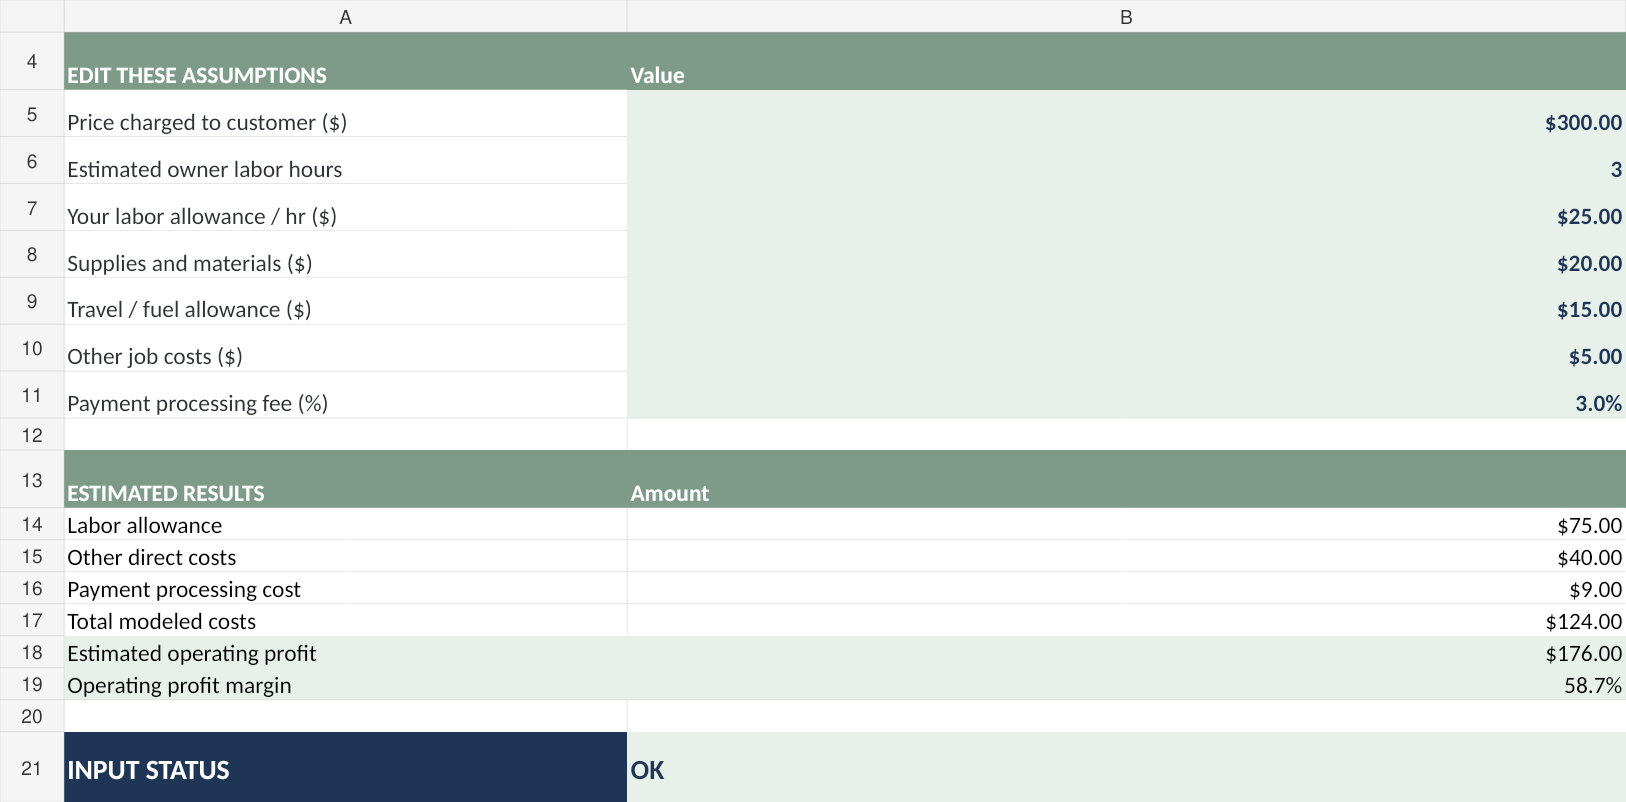
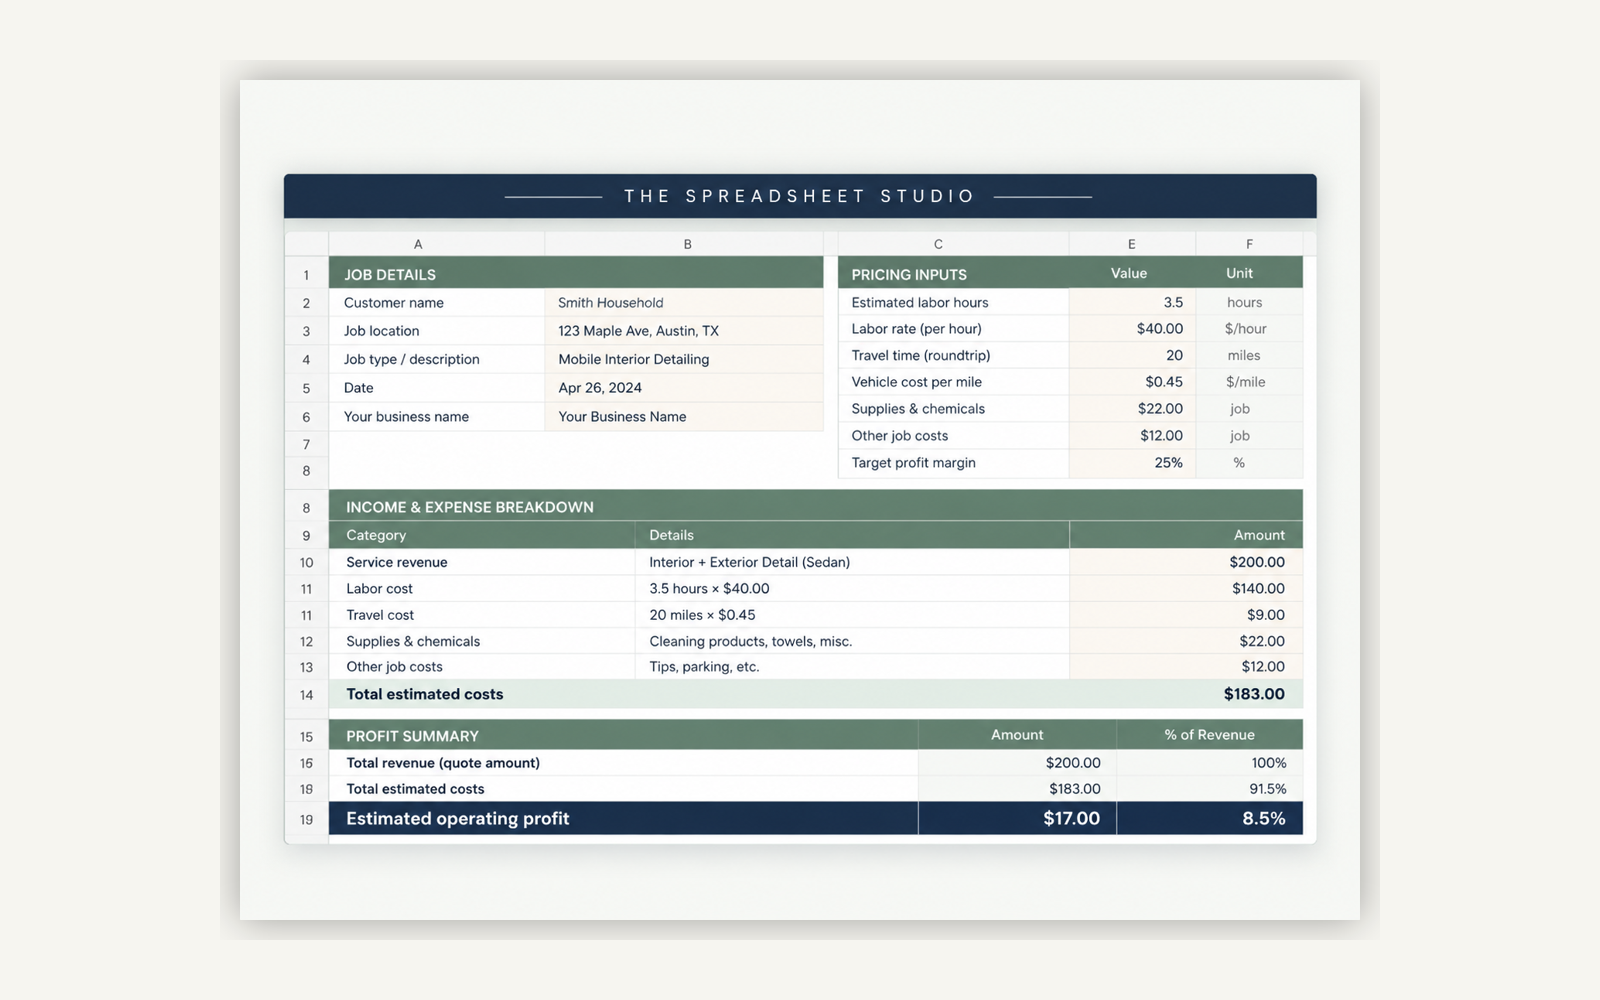
Add files via upload

diff --git a/styles.css b/styles.css
@@ -1,11 +1,11 @@
 :root{--navy:#1F3556;--euc:#7E9B8A;--ivory:#F7F3EB;--stone:#D8D2C8;--ink:#2E3135;--muted:#57666d;--line:#e3e5e0}*{box-sizing:border-box}html{scroll-behavior:smooth}body{margin:0;font:16px/1.65 'DM Sans',Arial,sans-serif;color:var(--ink);background:#fdfcf9}a{text-decoration:none;color:inherit}button,input{font:inherit}button{cursor:pointer}h1,h2,h3,.wordmark{font-family:'Playfair Display',Georgia,serif}h1{font-size:clamp(2.8rem,5.2vw,5rem);font-weight:600;line-height:1.15;letter-spacing:-.035em;margin:18px 0 22px}h2{font-size:clamp(2.1rem,3.6vw,3.25rem);font-weight:600;line-height:1.2;letter-spacing:-.03em;margin:12px 0 18px;color:var(--navy)}h3{font-size:1.35rem;line-height:1.3;margin:8px 0}p{color:var(--muted);margin:0 0 18px}.wrap{max-width:1210px;width:calc(100% - 48px);margin:auto}.announcement{background:var(--navy);color:white;text-align:center;padding:8px 15px;font-size:.78rem;letter-spacing:.08em}.header{background:#fffefa;position:sticky;top:0;z-index:5;border-bottom:1px solid var(--line)}.nav{min-height:84px;display:flex;align-items:center;justify-content:space-between;gap:15px}.wordmark{font-weight:700;color:var(--navy);font-size:1.45rem;line-height:1.05;display:inline-block}.wordmark span{display:block;font:700 .56rem 'DM Sans',sans-serif;letter-spacing:.16em;margin-top:9px}.nav nav{display:flex;gap:28px}.nav nav a{font-size:.89rem;color:#354653;font-weight:600}.nav nav a:hover,a.text-link:hover{color:#4a8066}.nav-cta,.button{border-radius:4px;background:var(--navy);color:white;padding:12px 19px;border:1px solid var(--navy);font-weight:700;font-size:.88rem;display:inline-flex;align-items:center;justify-content:center;gap:12px}.button:hover,.nav-cta:hover{background:#345476}.button.secondary{background:transparent;color:var(--navy)}.button.secondary:hover{background:#ebf1ea}.button.light{background:#e7f0e9;color:var(--navy);border-color:#e7f0e9}.menu{display:none;border:1px solid var(--line);background:white;color:var(--navy);padding:7px 12px;border-radius:4px}.eyebrow{font-size:.72rem;letter-spacing:.18em;font-weight:700;color:#597565}.hero{background:linear-gradient(115deg,#f7f3eb 0%,#f5f5f0 55%,#e6eee7 100%);overflow:hidden}.hero-grid{display:grid;grid-template-columns:1.03fr .97fr;align-items:center;gap:50px;padding:92px 0 100px}.hero h1{color:var(--navy)}.hero h1 em{font-style:normal;color:#608271}.hero p{max-width:500px;font-size:1.04rem}.actions{display:flex;gap:12px;flex-wrap:wrap;margin:30px 0 18px}.hero .launch-note{font-size:.8rem;color:#6f7f7b}.hero-art{min-height:425px;display:grid;place-items:center;position:relative}.glow{position:absolute;inset:3%;border-radius:50%;background:#dce7dc;transform:rotate(-8deg)}.laptop{position:relative;width:min(100%,560px);border:10px solid #283951;border-bottom-width:24px;border-radius:15px 15px 7px 7px;box-shadow:0 26px 55px #1f355632;transform:rotate(-3deg);background:white;overflow:hidden}.mockbar{background:#edf2ed;padding:11px 15px;font-size:.55rem;color:#446054;display:flex;justify-content:space-between;font-weight:700}.mockmain{padding:23px}.mocklabel{color:var(--navy);font-weight:700;margin-bottom:15px}.statgrid{display:grid;grid-template-columns:repeat(3,1fr);gap:9px}.statgrid>div{border:1px solid #e2e9e4;border-radius:5px;padding:10px 9px}.statgrid small{display:block;font-size:.55rem;color:#7b8884}.statgrid b{font-size:1.03rem;color:#335849}.charts{display:grid;grid-template-columns:1.4fr 1fr;gap:11px;margin-top:13px}.chart{border:1px solid #e2e9e4;border-radius:5px;padding:13px;min-height:155px}.chart small{color:#61746c;font-weight:700}.bars{height:105px;display:flex;gap:9px;align-items:end}.bars i{display:block;flex:1;background:#8eac9c;border-radius:3px 3px 0 0}.bars i:nth-child(even){background:#355472}.donut{width:98px;height:98px;border-radius:50%;background:conic-gradient(var(--navy) 0 42%,var(--euc) 42% 72%,#d4e0d3 72%);margin:12px auto;display:grid;place-items:center}.donut:after{content:'';width:60px;height:60px;background:white;border-radius:50%}.floatnote{position:absolute;bottom:12px;right:-4px;background:white;box-shadow:0 12px 30px #213b2a23;padding:11px 17px;border-radius:7px;color:#466c59;font-size:.78rem;font-weight:700}.benefits{background:#fff;border-bottom:1px solid var(--line)}.benefit-grid{display:grid;grid-template-columns:repeat(3,1fr);gap:22px;padding:24px 0;color:var(--navy);font-size:.85rem;font-weight:700}.section{padding:84px 0}.section-heading{display:flex;align-items:end;justify-content:space-between;gap:25px;margin-bottom:33px}.section-heading p{max-width:650px}.text-link{font-weight:700;color:var(--navy);white-space:nowrap}.category-grid,.products{display:grid;grid-template-columns:repeat(3,1fr);gap:19px}.category{background:white;border:1px solid var(--line);border-radius:10px;padding:28px;min-height:192px;transition:transform .2s,box-shadow .2s}.category:hover{transform:translateY(-3px);box-shadow:0 12px 30px #223b5012}.category>span{display:grid;place-items:center;background:#e9f0e9;color:#446d55;border-radius:8px;width:47px;height:47px;font-size:1.35rem;margin-bottom:16px}.category h3{color:var(--navy)}.category p{font-size:.87rem;margin:0}.catalog{background:#f3f5f1}.toolbar{display:flex;align-items:center;justify-content:space-between;flex-wrap:wrap;gap:15px;margin-bottom:25px}.filters{display:flex;flex-wrap:wrap;gap:6px}.filter{border:1px solid #d6dfd7;color:#53665c;border-radius:30px;background:white;padding:9px 13px;font-size:.76rem;font-weight:700}.filter[aria-pressed=true]{background:var(--navy);border-color:var(--navy);color:white}.search-label input{border:1px solid #cbd8d0;background:white;border-radius:4px;padding:10px 13px;width:235px}.product{background:white;border:1px solid #e0e6e0;border-radius:9px;overflow:hidden;display:flex;flex-direction:column}.preview{height:215px;padding:25px;display:grid;place-items:center;background:linear-gradient(135deg,#e4ede7,#f6f4ed)}.preview.blue{background:linear-gradient(135deg,#dee7f1,#f8f7f2)}.preview.sand{background:linear-gradient(135deg,#ece5da,#f9f6ef)}.sheet{background:white;box-shadow:0 12px 25px #123c321a;width:100%;max-width:315px;transform:rotate(-2deg);border-radius:6px;overflow:hidden}.sheet-head{background:#25485c;color:white;padding:8px 10px;font-size:.58rem;font-weight:700;letter-spacing:.03em}.sheet-row{display:grid;grid-template-columns:repeat(4,1fr);border-bottom:1px solid #e7edeb}.sheet-row i{height:19px;border-right:1px solid #e8eeee}.sheet-row i:first-child{background:#eaf1eb}.sheet-row:nth-child(even) i:nth-child(3){background:#dce8e0}.sheet-row:nth-child(odd) i:nth-child(4){background:#e5ebf2}.product-body{padding:23px;display:flex;flex-direction:column;flex:1}.product-tag{color:#567963;font-weight:700;font-size:.68rem;letter-spacing:.1em;text-transform:uppercase}.product h3{font:700 1.13rem 'DM Sans',sans-serif;color:var(--navy);margin:10px 0}.product p{font-size:.86rem;flex:1}.unavailable{font-size:.72rem;color:#687b71;font-weight:700;letter-spacing:.02em}.product-end{display:flex;align-items:center;justify-content:space-between;gap:12px;margin-top:11px}.price{font-size:1.2rem;color:var(--navy);font-weight:700}.more{border:1px solid #b0bfba;color:var(--navy);background:white;padding:9px 11px;border-radius:4px;font-weight:700;font-size:.78rem}.more:hover{background:#edf4ee}.story{background:var(--navy);color:white}.story h2{color:white}.story p{color:#dce4e7}.story .eyebrow{color:#bbd5c4}.story-grid{display:grid;grid-template-columns:1fr 1fr;gap:70px;align-items:center}.values{background:#c9d9ce;border-radius:12px;min-height:315px;padding:35px;display:grid;grid-template-columns:repeat(2,1fr);gap:13px}.values div{background:#fbfcf8;color:var(--navy);border-radius:7px;padding:22px}.values strong{font-size:2rem;display:block}.values span{font-size:.78rem;font-weight:700}.faq{max-width:850px;text-align:center}.faq details{text-align:left;padding:19px 5px;border-bottom:1px solid var(--line)}.faq summary{font-weight:700;color:var(--navy);cursor:pointer}.faq details p{margin:12px 0 0}.faq details a{text-decoration:underline}footer{background:#e9eee9;padding:60px 0 24px}.footer-grid{display:grid;grid-template-columns:2fr 1fr 1fr;gap:40px}.footer-grid p{max-width:350px;margin-top:20px;font-size:.9rem}.footer-grid h3{font-family:'DM Sans',sans-serif;color:var(--navy);font-size:1rem}.footer-grid a,.footer-grid>div>span{display:block;font-size:.87rem;color:#566a64;margin:9px 0}.copyright{border-top:1px solid #ccd5cd;margin-top:35px;padding-top:20px;font-size:.77rem;color:#5e716c}.detail{width:min(570px,calc(100% - 25px));padding:0;border:0;border-radius:10px;box-shadow:0 35px 90px #10233877}.detail::backdrop{background:#162438bb}.dialog-content{padding:35px}.dialog-content h2{font-size:2rem}.dialog-content .small{font-size:.8rem}.close{float:right;background:#edf1ee;border:0;border-radius:4px;font-size:1.4rem;padding:1px 12px}.sr-only{position:absolute;width:1px;height:1px;overflow:hidden;clip:rect(0,0,0,0)}a:focus-visible,button:focus-visible,input:focus-visible,summary:focus-visible{outline:3px solid #b18146;outline-offset:3px}@media(max-width:940px){.nav nav{gap:13px}.wordmark{font-size:1.15rem}.hero-grid{grid-template-columns:1fr;padding:70px 0 75px}.hero-art{min-height:360px}.category-grid,.products{grid-template-columns:repeat(2,1fr)}.story-grid{gap:30px}}@media(max-width:650px){.wrap{width:calc(100% - 32px)}.nav{min-height:70px}.nav nav{display:none;position:absolute;left:0;right:0;top:70px;background:white;padding:22px;box-shadow:0 16px 30px #20335021;flex-direction:column;align-items:start}.nav nav.open{display:flex}.menu{display:block}.nav-cta{display:none}h1{font-size:2.7rem}.hero-grid{padding:55px 0 60px}.hero-art{min-height:290px}.laptop{max-width:92%}.floatnote{font-size:.64rem}.benefit-grid,.category-grid,.products,.story-grid,.footer-grid{grid-template-columns:1fr}.benefit-grid{gap:12px}.section{padding:58px 0}.section-heading{display:block}.category{min-height:0}.search-label,.search-label input{width:100%}.values{min-height:240px}.footer-grid{gap:22px}}@media(prefers-reduced-motion:reduce){html{scroll-behavior:auto}*{transition:none!important}}
 
 /* Authentic pre-release spreadsheet product previews */
-.preview.has-image{padding:10px;background:#edf2ec;overflow:hidden}
-.preview.has-image img{max-width:100%;height:100%;object-fit:contain;object-position:top center;display:block;filter:drop-shadow(0 5px 6px rgba(17,35,53,.12))}
+.preview.has-image{height:240px;padding:14px;background:linear-gradient(135deg,#eef3ef,#faf8f2);overflow:hidden;display:grid;place-items:center}
+.preview.has-image img{width:100%;height:100%;max-width:none;object-fit:contain;object-position:center center;display:block;filter:drop-shadow(0 5px 6px rgba(17,35,53,.10))}
 #product-gallery{margin:14px 0}
 #product-gallery a{display:block;max-height:260px;overflow:hidden;border:1px solid #dbe4dd;border-radius:9px;background:#f6f9f6;text-align:center}
-#product-gallery img{max-width:100%;max-height:250px;object-fit:contain;object-position:top center}
+#product-gallery img{width:100%;max-height:250px;object-fit:contain;object-position:center top}
 #product-gallery p{font-size:.8rem;color:#5f6c74;margin:6px 0}
 
 /* Launch product actions (2026-10-13) */
